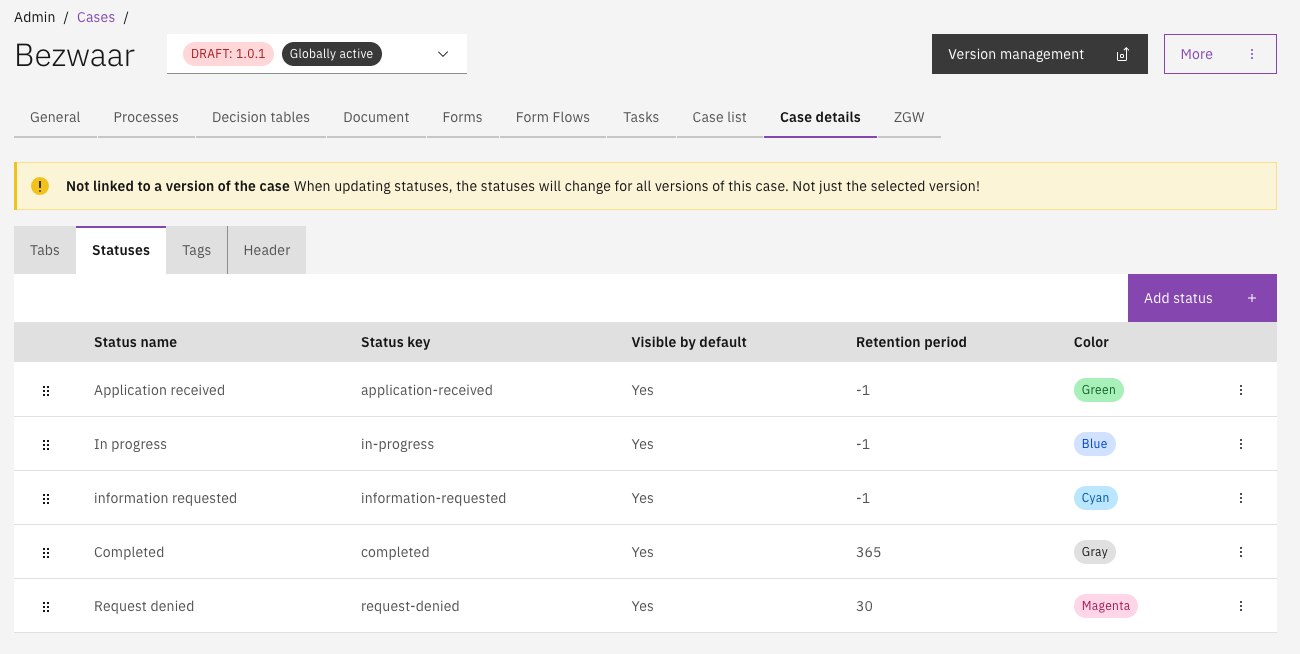
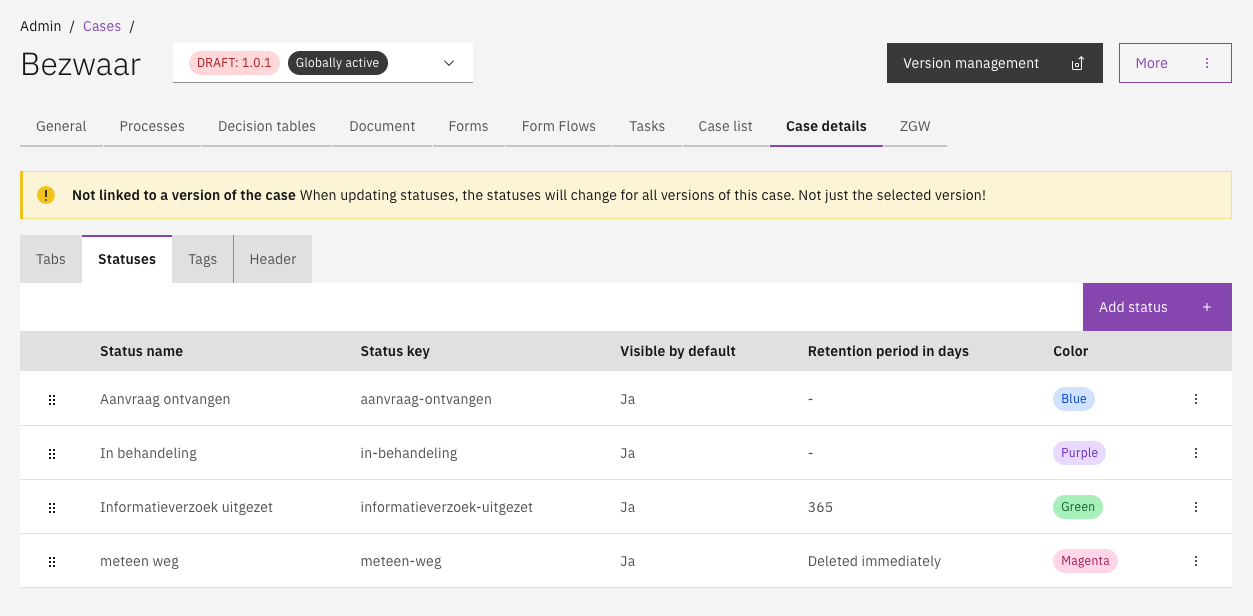
Refactored `retentionDate` type from `String` to `LocalDateTime` across backend and frontend for consistency and simplified formatting logic.

diff --git a/documentation/features/case/case-detail/statuses.md b/documentation/features/case/case-detail/statuses.md
@@ -21,16 +21,10 @@ A status can be added with the **Add status** button. A modal will be shown with
 
 <figure><img src="../../../.gitbook/assets/case-detail-statuses-create.png" alt=""><figcaption></figcaption></figure>
 
-* **Name**\
-  \_Used as a label in the case summary and case list, the name is presented in the UI.
-* **Key**\
-  \_The identifier of the status, this must be a unique value within the scope of the case it is added to. A key based on the name is generated automatically but can be overwritten via the pencil button.
-* **Retention date**\
-  When the **retention period** is set to 0 or higher, the **retention date** is calculated when the internal state is applied to a case. The case will be removed once the retention period has expired.\
-  **Note:** If an internal state with the retention period not set (less than 0), the retention date of the case will not be calculated or cleared when set.\
-  Possible retention period values are:
-  * Values of 0 or higher: retention is active, case will be deleted after the specified number of days.
-  * Negative values (e.g., -1): no retention period is set, case will not be automatically deleted.
+* **Status name**\
+  Used as a label in the case summary and case list, the name is presented in the UI.
+* **Status key**\
+  The identifier of the status, this must be a unique value within the scope of the case it is added to. A key based on the name is generated automatically but can be overwritten via the pencil button.
 * **Color**\
   Statuses are displayed as a badge in the case details and list screen UI.\
   This badge will be displayed in the selected color.\
@@ -50,6 +44,12 @@ A status can be added with the **Add status** button. A modal will be shown with
   * Outline (`OUTLINE`)
 * **Visible**\
   Indication if cases in that status should be shown on the case list screen by default.
+* **Retention period in days**\
+  When the **retention period** is set to 0 or higher, the **retention date** is calculated when the internal state is applied to a case. The case will be removed once the retention period has expired.\
+  **Note:** If an internal state with the retention period not set (less than 0), the retention date of the case will not be calculated or cleared when set.\
+  Possible retention period values are:
+  * Values of 0 or higher: retention is active, case will be deleted after the specified number of days. 0 means the case will be deleted immediately and is listed as such in the case list.
+  * Negative values (e.g., -1): no retention period is set, case will not be automatically deleted.
 
 {% hint style="info" %}
 **Statuses are automatically added to the case search filters**

diff --git a/documentation/release-notes/13.x.x/13.13.0/README.md b/documentation/release-notes/13.x.x/13.13.0/README.md
@@ -28,14 +28,6 @@
 
   Learn more at Learn more at [IKO documentation](https://docs.integraal-klant-objectbeeld.nl/).
 
-
-* **Setting case retention date**
-
-  The _retention period_ is an internal status property that, when set, calculates the expiration date for the case.<br>When that date is reached, the case and all associated processes (including process history) will be deleted. If present, the case is also removed from connected ZGW platforms (for example, case details, objects, and uploaded documents).
-  See [Internal status](../../../features/case/case-detail/statuses.md) for the configuration of the retention date.
-
-  **Note:** when the case internal status is set where the retention period is set to -1, the retention date of the case will not be calculated or cleared when set.
-
 ## Enhancements
 
 * **Widget configuration made available to custom component**

diff --git a/documentation/release-notes/13.x.x/13.14.0/README.md b/documentation/release-notes/13.x.x/13.14.0/README.md
@@ -6,9 +6,12 @@
 
 ## New Features
 
-* **New feature title**
+* **Setting case retention date**
 
-  New feature explanation.
+  The _retention period_ is an internal status property that, when set, calculates the expiration date for the case.<br>When that date is reached, the case and all associated processes (including process history) will be deleted. If present, the case is also removed from connected ZGW platforms (for example, case details, objects, and uploaded documents).
+  See [Internal status](../../../features/case/case-detail/statuses.md) for the configuration of the retention date.
+
+  **Note:** when the case internal status is set where the retention period is set to -1, the retention date of the case will not be calculated or cleared when set.
 
 ## Enhancements
 